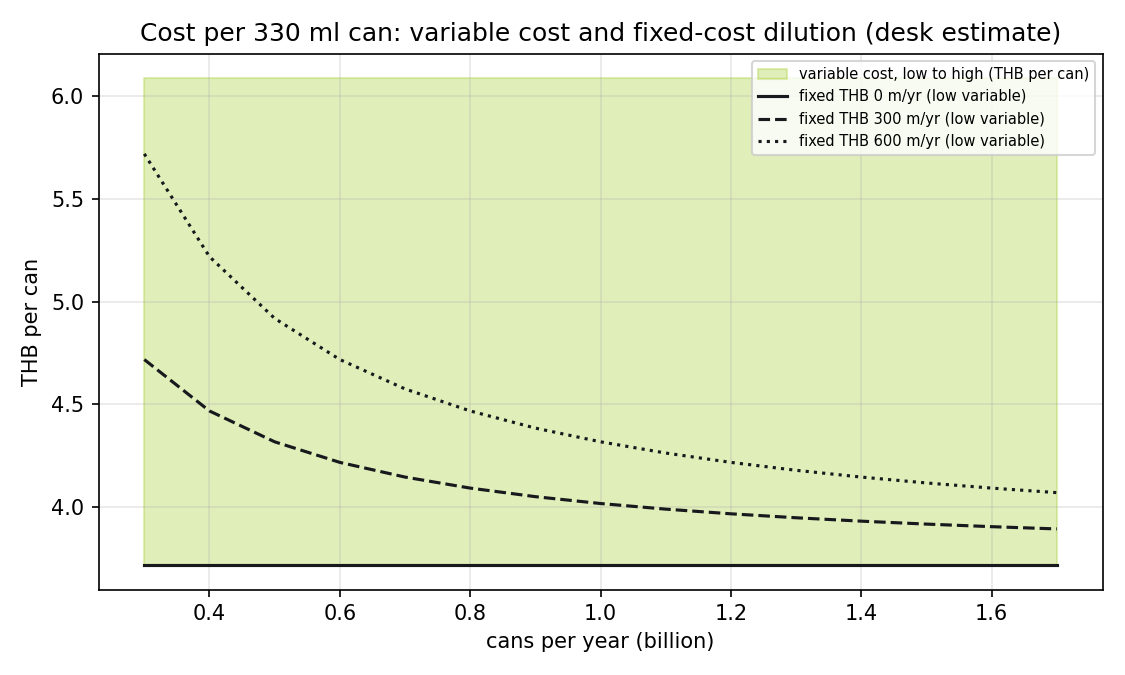
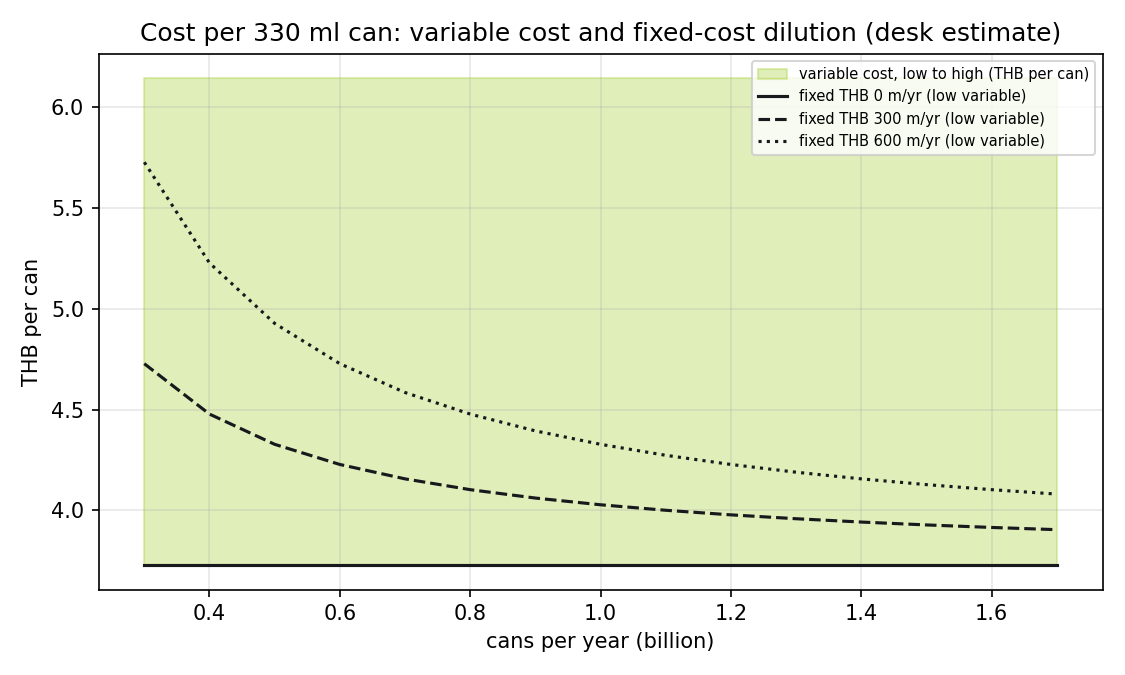
Primary-source pass: LME, Bank of Thailand, BJC 56-1 One Report (TBC)
- LME cash official bid and offer and the Bank of Thailand USD rates replace the
  secondary bands in the can cost model; variable cost THB 3.73 to 6.14, middle 4.94.
- TBC capacity from the primary BJC 56-1 One Report 2025: 4 lines plus a hybrid
  line in 2025; the 2022 expansion stated as about 10% of current capacity.
- Royal Gazette sugar-drink tax: blocked by a bot-verification page; not bypassed;
  the user has a separate tab open to resolve it.

diff --git a/rework/screen/can_cost_model.py b/rework/screen/can_cost_model.py
@@ -19,8 +19,8 @@ OUT_PNG = HERE.parent / "charts" / "can_cost_per_unit.png"
 CAN_L = 0.33  # litres per can
 
 # ---- Inputs: (low, high), tier, status, source note -------------------------------------------
-FX = (33.32, 33.44)                 # THB per USD, XE mid-market 18 Oct 2026 (S); low is a 16 Sep reading
-LME = (2998.5, 3008.5)              # USD per tonne, LME cash bid (S, news report); high is a CFD (S)
+FX = (33.3535, 33.7455)              # THB per USD: BOT average buying sight and selling transfer, 15 Oct 2026 (P, primary)
+LME = (3013.0, 3014.0)              # USD per tonne: LME official cash bid and offer, data valid 16 Oct 2026 (P, primary)
 SHEET_G = (14.4, 18.5)              # g of aluminium sheet per can (ASSUMPTION, from the can mass row)
 CONV_NONMETAL = (0.04, 0.08)        # USD per can, non-metal conversion (PROXY, US 2024, S); corrected range
 FILL_CONSUM = (0.001, 0.004)        # USD per can, filling consumables (ASSUMPTION)

diff --git a/rework/61_singha_can_cost_model.md b/rework/61_singha_can_cost_model.md
@@ -97,3 +97,15 @@ Premium sensitivity (mid inputs, THB per can at zero, USD 100 and USD 200 per to
 - **IMARC:** the sheet-input range (14.4 to 18.5 g) is driven by the 13 to 15 g can mass. IMARC's 18.0 g is a sensitivity, not the basis of the range.
 - **Nameplate citation:** the record says 2012 news and the script says 2018. Use one year when the source is saved.
 - **Not saved in the repo (unverified until the page text is saved to rework/raw/):** the LME prices (alcircle and Trading Economics), the XE rate, the sugar price (21 to 29 THB per kg), the non-metal conversion (sciencefix), the peer canned share (55.3%), utilisation (58.4 to 63.3%), the Crown line capacity, and the scrap figure (1.4 to 3.5 g).
+
+## Primary update (19 October 2026)
+
+The model now uses primary values where they were read:
+- **LME cash:** US$3,013.00 to 3,014.00 per tonne, the official cash bid and offer, data valid 16 October 2026 (`raw/lme_trading_summary_primary_2026-10-19.md`). This replaces the news-report band (2,998.50 to 3,008.50).
+- **USD/THB:** 33.3535 to 33.7455, the Bank of Thailand average buying (sight) and selling (transfer) rates as of 15 October 2026 (`raw/bot_fx_primary_2026-10-15.md`). This replaces the XE band.
+
+Result: variable cost is THB 3.73 to 6.14 per can, middle THB 4.94 (before, THB 3.72 to 6.09). Sheet metal is USD 0.0434 to 0.0558 per can.
+
+Still not primary: the sugar-levy line (the Royal Gazette notice is behind a verification page in the browser; the Excise Department page read was a landing page), the non-metal conversion (a US proxy), the sugar liquid (an assumption), the scrap and the premium. The regional aluminium premium and scrap credit remain missing.
+
+Can capacity, now from the primary filing: BJC's 56-1 One Report 2025 says TBC has 4 can production lines and added a fifth (hybrid) line in 2025. The 2022 expansion of 400 million cans a year is stated as about 10% of current capacity, which derives to roughly 4,000 million cans a year (approximate; `raw/bjc_one_report_2025_tbc_excerpt.md`). The line count and the 2022 timing are not reconciled. This is not used in the cost per can, which does not depend on the can plant's capacity.

diff --git a/rework/raw/bjc_one_report_2025_tbc_excerpt.md b/rework/raw/bjc_one_report_2025_tbc_excerpt.md
@@ -1,0 +1,19 @@
+# BJC 56-1 One Report 2025: Thai Beverage Can (primary excerpt, read 19 October 2026)
+
+Source (primary, the company's filing): https://bjc.listedcompany.com/misc/one-report/20260403-bjc-one-report2025-en.pdf
+Report year 2025; file date in its name: 3 April 2026. Page numbers are PDF page numbers of the saved copy (556 pages).
+
+Quoted, page 39 (section 2.2, Aluminium cans):
+- "The Company is a manufacturer and seller of aluminium cans. This is achieved through the Thai Beverage Can Company Limited (TBC) which is a subsidiary under the Company. It locates at WHA industrial estate, Saraburi, Nong Khae District, Saraburi province. Currently, there are 4 production lines for cans..."
+- "In 2025, TBC expanded its production capacity by developing Can Line 5, also known as the Hybrid Line, at the TBC 2 plant to fully meet customer demand."
+
+Quoted, page 6 (2022 events):
+- "Construction began on a new aluminum can production line with a production capacity of 400 million cans or 200 million bottles per year, increasing production capacity by approximately 10% from the current level. Commercial operations are planned to commence in September 2023."
+
+Page 13: Thai Beverage Can Limited, BJC share 50.00% (share table).
+
+Derived (DERIVED, our arithmetic on a stated approximation): if 400 million cans a year is about 10% of current capacity, current capacity is about 4,000 million cans a year. The report does not state a total. The 10% is rounded in the source, so the derived figure is approximate.
+
+Conflicts to resolve: the 2022 statement says a new line was planned for September 2023, while the 2025 report says 4 lines plus a fifth (hybrid) line added in 2025. The report does not give a per-line table, so the line count is not reconciled. The 2012 figure of 1.8 to 2.2 billion cans (secondary, a news report) is older and does not match the derived figure.
+
+Tier: P (primary) for the quotes. Status: SOURCED for the quotes; DERIVED for the total.

diff --git a/rework/raw/primary_source_attempts_2026-10-19.md b/rework/raw/primary_source_attempts_2026-10-19.md
@@ -21,3 +21,10 @@ Purpose: close the largest gaps in `rework/61` by reading primary sources, as `S
 ## Effect on the model
 
 No input in `rework/61` changes on the strength of this pass. The gaps stay as stated limits. The sugar-tax excise line and the can-capacity figure are still missing.
+
+## Outcomes after the Claude in Chrome pass (19 October 2026)
+
+- **LME (primary): read.** Official cash bid 3013.00, offer 3014.00 US$/t, data valid 16 Oct 2026. Saved to `lme_trading_summary_primary_2026-10-19.md`.
+- **Bank of Thailand (primary): read.** USD buying sight 33.3535, selling transfer 33.7455, as of 15 Oct 2026. Saved to `bot_fx_primary_2026-10-15.md`.
+- **BJC 56-1 One Report 2025 (primary): read.** TBC has 4 can lines, plus a hybrid line added in 2025; the 2022 expansion is stated as about 10% of current capacity. Saved to `bjc_one_report_2025_tbc_excerpt.md`.
+- **Royal Gazette, sugar-drink tax (primary): blocked.** The ratchakitcha PDF is behind a bot-verification page. Not bypassed. The user opened a separate tab to resolve it. Not read yet.

diff --git a/rework/raw/lme_trading_summary_primary_2026-10-19.md b/rework/raw/lme_trading_summary_primary_2026-10-19.md
@@ -1,0 +1,16 @@
+# LME aluminium: trading summary (primary, read 19 October 2026)
+
+Source (primary, the exchange): https://www.lme.com/en/metals/non-ferrous/lme-aluminium (tab: Trading summary)
+Read in the user's Chrome, 19 October 2026. The page states: "Data valid for 16 Oct 2026".
+
+LME Aluminium Official Prices (US$ per tonne):
+- Cash: bid 3013.00, offer 3014.00
+- 3-month: bid 3011.50, offer 3012.00
+- Dec-27: bid 2975.00, offer 2980.00
+
+LME Aluminium Closing Prices (US$ per tonne):
+- 3-month closing price: 3001.50
+
+Settlement exchange rates on the same page: GB Pound Sterling 1.3337; Japanese Yen 158.01; Euro 1.1257.
+
+Tier: P (primary). Status: SOURCED. Replaces the news-report cash bid (2998.50 to 3008.50, secondary) in rework/61.

diff --git a/rework/raw/bot_fx_primary_2026-10-15.md b/rework/raw/bot_fx_primary_2026-10-15.md
@@ -1,0 +1,13 @@
+# Bank of Thailand: average counter rates for USD (primary, read 19 October 2026)
+
+Source (primary, the central bank): https://www.bot.or.th/en/statistics/exchange-rate.html
+The page states: "as of 15 October 2026".
+
+USD (baht per 1 US dollar), average counter rate quoted by commercial banks:
+- Average buying rate, sight: 33.3535
+- Average buying rate, bill: 33.4246
+- Average selling rate, transfer: 33.7455
+
+Derived: mid of buying sight and selling transfer = 33.5495 (DERIVED, our arithmetic).
+
+Tier: P (primary). Status: SOURCED. Replaces the XE mid-market rate (secondary) in rework/61.
